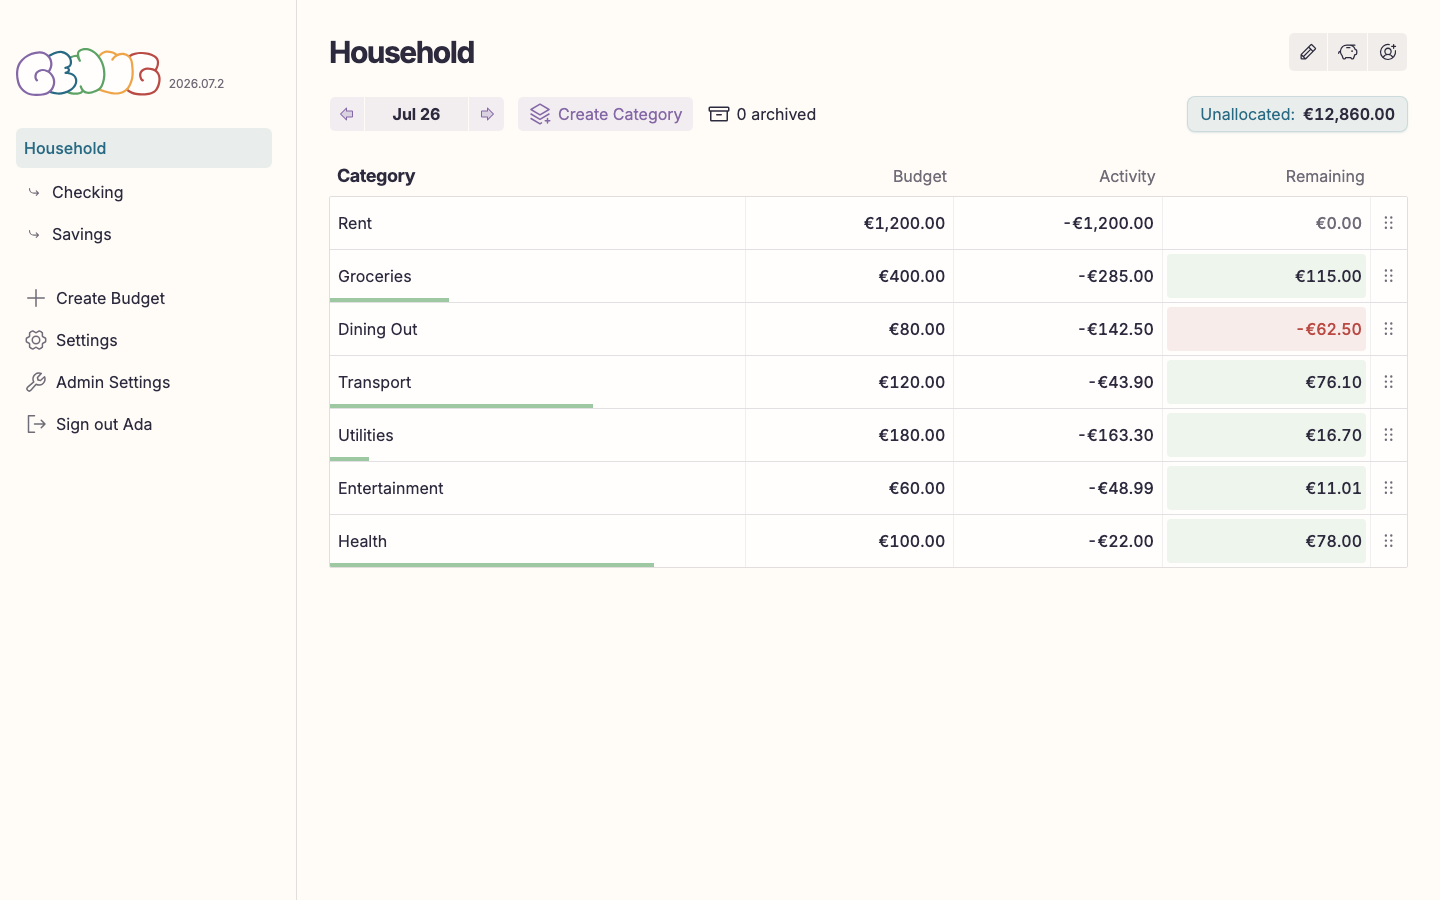
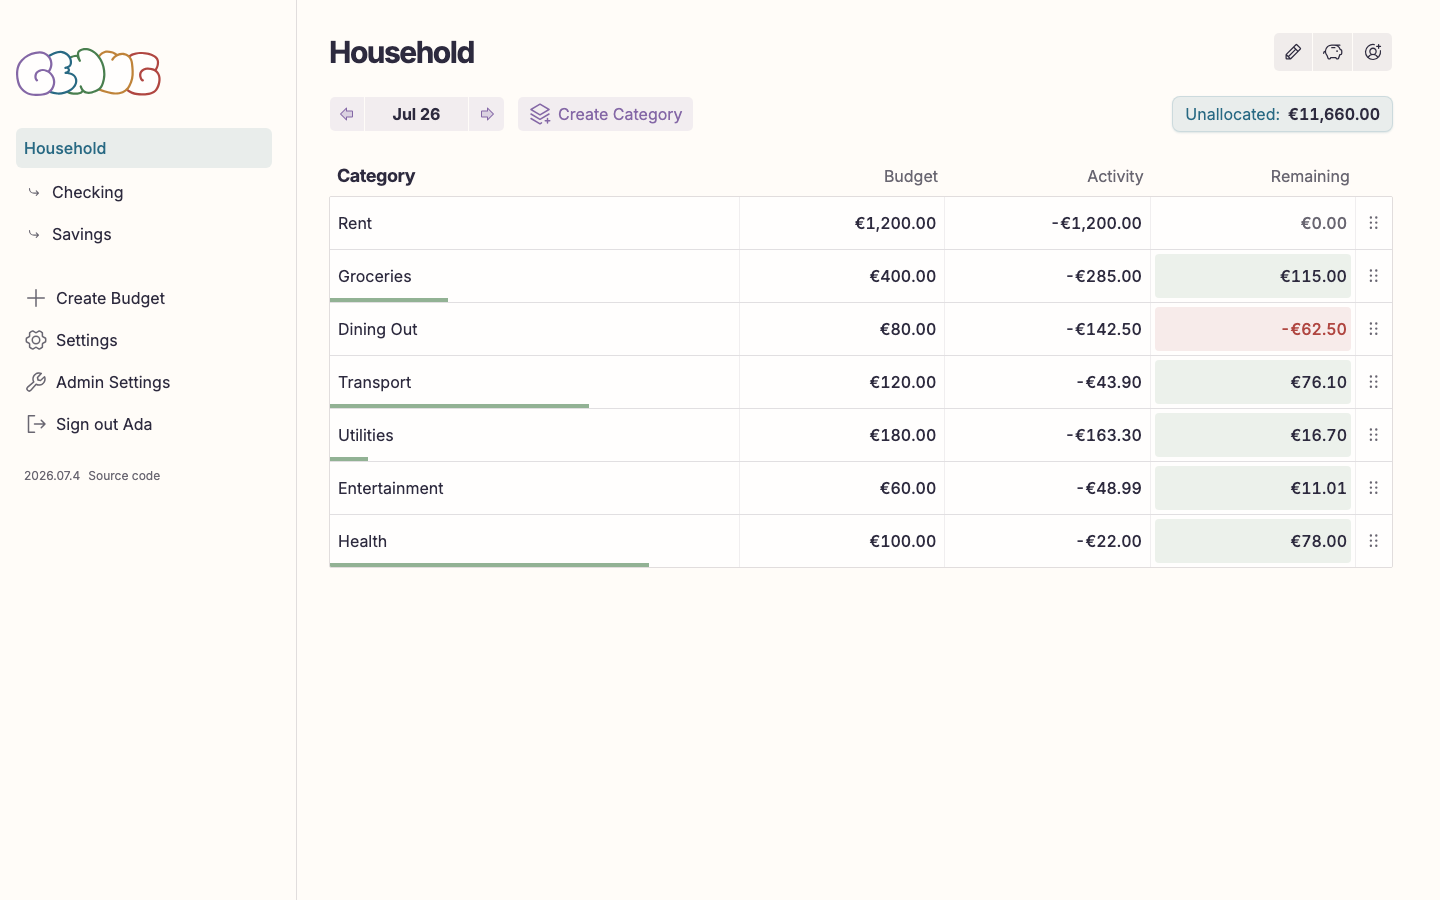
docs(usage): add TOC and screenshots (#228) (#234)
Make docs/usage.md scannable: add a nested table of contents after the
intro and embed three screenshots (budget, transactions, and the new
Unassigned breakdown popover) via width-constrained raw <img>. Prose and
section order are left unchanged.

Extend the screenshot flow to capture the popover: seed.ts gains one
future-month assignment so the current-month Unassigned stays positive
while lighting up the popover's Position/Reserved/bottleneck rows, and
screenshot.ts adds a distinct capture path that opens the pill and shoots
only the popover content. The popover is captured at 2x device scale in
its own context (reusing the session) so the small element stays crisp
when embedded near its natural width. screenshots.md is rescoped to three
shots.

diff --git a/scripts/screenshot.ts b/scripts/screenshot.ts
@@ -1,8 +1,8 @@
 /**
- * Captures the README screenshots end-to-end (issue #112 / #122): point a
- * throwaway SQLite file at a fresh build, seed the demo fixture, boot the
- * production server, log in, and screenshot the budget month view (the hero)
- * and an account's transactions.
+ * Captures the documentation screenshots end-to-end (issue #112 / #122): point
+ * a throwaway SQLite file at a fresh build, seed the demo fixture, boot the
+ * production server, log in, and screenshot the budget month view (the hero),
+ * an account's transactions, and the Unassigned breakdown popover.
  *
  * Not CI-gated — reproducibility is the kept-current mechanism. Rerun with
  * `npm run screenshots` after notable UI changes and commit the PNGs
@@ -46,7 +46,8 @@ async function main(): Promise<void> {
 		await waitForServer(`${ORIGIN}/login`);
 
 		mkdirSync(OUT_DIR, { recursive: true });
-		const page = await browser.newPage({ reducedMotion: 'reduce', viewport: VIEWPORT });
+		const context = await browser.newContext({ reducedMotion: 'reduce', viewport: VIEWPORT });
+		const page = await context.newPage();
 
 		await page.goto(`${ORIGIN}/login`);
 		await page.getByLabel('Username').fill(fixture.username);
@@ -76,6 +77,31 @@ async function main(): Promise<void> {
 		await page.getByRole('heading', { name: 'Checking' }).waitFor();
 		await page.getByText('Supermarket').first().waitFor();
 		await capture('transactions.png');
+
+		console.log('Capturing the Unassigned breakdown popover…');
+		// The popover is a small element (~380 CSS px), so a 1× element shot looks
+		// soft once embedded near that width. Capture it in its own context at 2×
+		// device scale for a crisp image, reusing the logged-in session so we skip
+		// a second login. It needs a bespoke path anyway: the popover must stay
+		// open, but the shared `capture()` helper blurs focus (dismissing it) and
+		// shoots the full viewport.
+		const hidpi = await browser.newContext({
+			deviceScaleFactor: 2,
+			reducedMotion: 'reduce',
+			storageState: await context.storageState(),
+			viewport: VIEWPORT
+		});
+		const hidpiPage = await hidpi.newPage();
+		await hidpiPage.goto(`${ORIGIN}/${fixture.budgetId}/${fixture.month}`);
+		await hidpiPage.getByRole('heading', { name: 'Household' }).waitFor();
+		await hidpiPage.getByRole('button', { name: 'Explain the unallocated amount' }).click();
+		const popover = hidpiPage.locator('[data-slot="popover-content"]');
+		await popover.getByText('Reserved').waitFor();
+		// `.screenshot()` waits for the open transition to settle first.
+		await popover.screenshot({ path: join(OUT_DIR, 'unassigned.png') });
+		const box = await popover.boundingBox();
+		console.log(`Popover CSS width: ${box?.width}px (embed at ~this width so 2× stays crisp)`);
+		await hidpi.close();
 
 		console.log(`Wrote screenshots to ${OUT_DIR}/`);
 	} finally {

diff --git a/scripts/seed.ts b/scripts/seed.ts
@@ -14,7 +14,7 @@
  */
 import { createUser, hashPassword } from '$db';
 import { createUserCtx } from '$db/user-context';
-import { currentMonth } from '$lib/utils/month';
+import { addMonths, currentMonth } from '$lib/utils/month';
 
 export type SeedResult = {
 	budgetId: string;
@@ -85,6 +85,14 @@ const SAVINGS_TRANSACTIONS: TransactionSeed[] = [
 	{ amount: 30000, category: null, day: 9, notes: 'Round-up savings', validated: true }
 ];
 
+// A single assignment one month ahead. It has no income of its own, so it pulls
+// the future running position below the current month's — lighting up the
+// Unassigned popover's reach-back terms (Position, Reserved, and a bottleneck
+// month) for the unassigned.png screenshot. Sized well under the current-month
+// income so the current month stays comfortably positive (calm, not a warning).
+// Removing it silently flattens the popover — see docs/dev/screenshots.md.
+const FUTURE_ASSIGNMENT = { amount: 120000, category: 'Rent' } as const;
+
 export async function seedFixture(): Promise<SeedResult> {
 	const month = currentMonth();
 	const dateForDay = (day: number) =>
@@ -110,6 +118,13 @@ export async function seedFixture(): Promise<SeedResult> {
 		categoryIds.set(seed.name, category.id);
 	}
 	ctx.category.reorder(CATEGORIES.map((seed) => categoryIds.get(seed.name)!));
+
+	ctx.budget.assignment({
+		amount: FUTURE_ASSIGNMENT.amount,
+		budgetId,
+		categoryId: categoryIds.get(FUTURE_ASSIGNMENT.category)!,
+		month: addMonths(month, 1)
+	});
 
 	for (const tx of CHECKING_TRANSACTIONS) {
 		ctx.transaction.create({

diff --git a/docs/usage.md b/docs/usage.md
@@ -8,6 +8,21 @@ app: money you receive lands in an unassigned pool, and you assign it to
 spending categories before you spend it. Each category's remaining balance
 tells you how much you can still spend in that area.
 
+## Contents
+
+- [First login](#first-login)
+- [Budget plans](#budget-plans)
+- [Accounts](#accounts)
+- [Categories](#categories)
+- [The monthly budget view](#the-monthly-budget-view)
+  - [Assigning money](#assigning-money)
+  - [Moving money and covering overspending](#moving-money-and-covering-overspending)
+- [Transactions](#transactions)
+  - [Transfers between accounts](#transfers-between-accounts)
+- [Multi-user](#multi-user)
+- [Settings](#settings)
+- [Administration](#administration)
+
 ## First login
 
 On a fresh instance, the first visit redirects to a "Create Admin" screen.
@@ -81,6 +96,10 @@ numbers for the selected month:
 - **Remaining** — what is left to spend: assignments minus spending,
   carried across months.
 
+<img src="screenshots/budget.png" width="640" alt="The monthly budget view:
+each category with its assigned budget, activity, and remaining balance, one
+category overspent in red, and the unallocated pool at the top.">
+
 Use the month and year navigation to move between months; each month's
 assignments are independent.
 
@@ -95,6 +114,10 @@ you have already assigned money in future months, that reservation is
 reflected too — the breakdown popover shows income, allocations, and where a
 future bottleneck sits. A negative Unassigned value is a warning that you
 have assigned more than you have received so far, not a hard error.
+
+<img src="screenshots/unassigned.png" width="384" alt="The unallocated
+breakdown popover: income and assignments through the month, position, the
+amount reserved for a later month, and the total still available to assign.">
 
 ### Moving money and covering overspending
 
@@ -111,6 +134,10 @@ pool:
 Transactions live under an account. Each has a category (or none — a
 transaction without a category is income to the budget), a date, optional
 notes, an amount, and a validated flag.
+
+<img src="screenshots/transactions.png" width="640" alt="An account's
+transactions: a list showing each transaction's category, notes, date, and
+amount, each row marked pending or validated.">
 
 - **Add** — from an account, open the new-transaction form; new entries
   default to pending.

diff --git a/docs/dev/screenshots.md b/docs/dev/screenshots.md
@@ -1,13 +1,15 @@
-# README Screenshots
+# Documentation Screenshots
 
-The README embeds two screenshots — the budget month view and an account's
-transactions — living in `../screenshots/`. They are captured from a
+The docs embed three screenshots, all living in `../screenshots/`: the budget
+month view (`budget.png`) and an account's transactions (`transactions.png`)
+are shown in the README; the Unassigned breakdown popover (`unassigned.png`)
+is embedded in [`../usage.md`](../usage.md). They are captured from a
 deterministic demo fixture, not a live instance.
 
 ## Regenerating
 
-Run after notable UI changes to the budget month view or the transactions
-table, then commit the updated PNGs:
+Run after notable UI changes to the budget month view, the transactions
+table, or the Unassigned breakdown popover, then commit the updated PNGs:
 
 ```bash
 npm run screenshots
@@ -27,3 +29,10 @@ current month). Keep it deterministic — no random data — so screenshots only
 change when the UI or the fixture does. All transactions are dated within the
 current month, so the budget view always shows live activity whenever you
 regenerate.
+
+The fixture also makes one assignment in the **following** month
+(`FUTURE_ASSIGNMENT`). It has no income of its own, so it reserves part of the
+current month's money and gives the Unassigned popover a non-zero Position,
+Reserved, and bottleneck month to show in `unassigned.png` — while the current
+month stays positive. Remove it and the popover flattens to the calm state,
+silently killing what that screenshot demonstrates.
